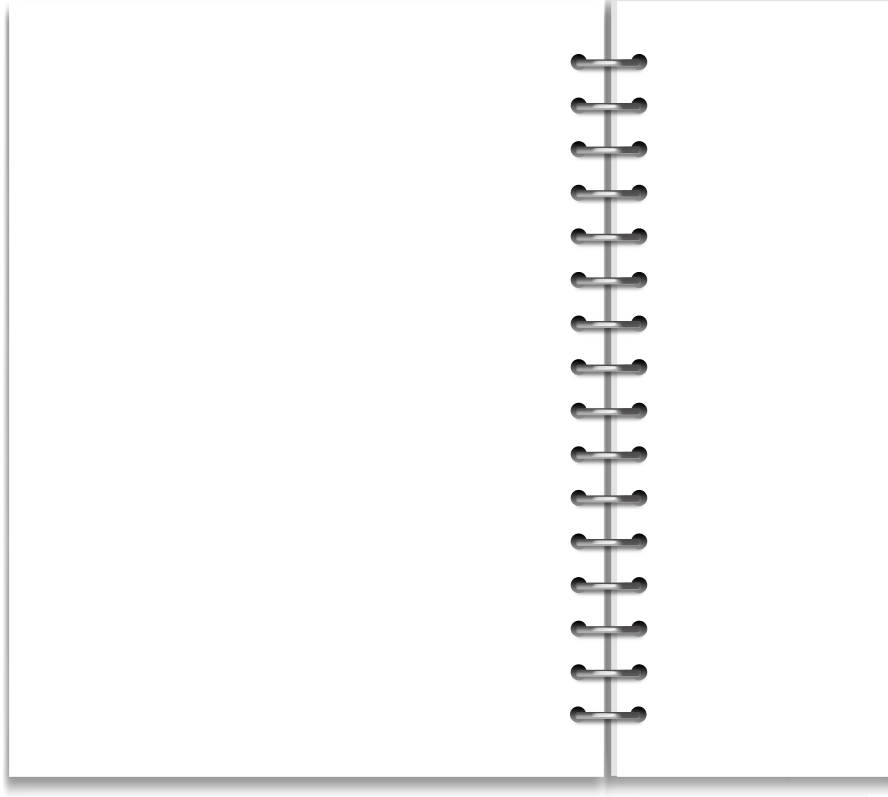
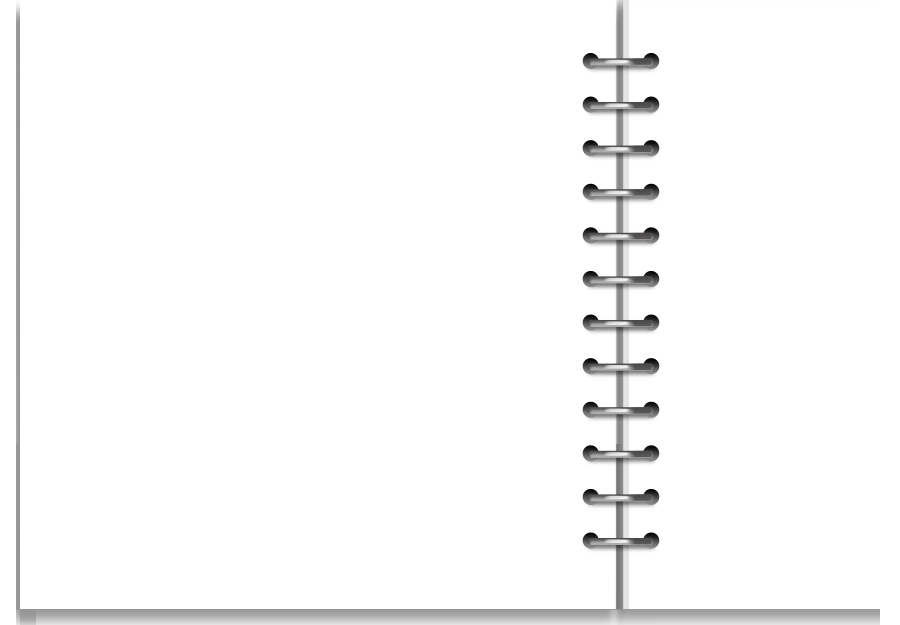
height resized

Changed region(s): [[0.6385, 0.0, 1.0, 1.0], [0.0, 0.0, 0.0608, 1.0]]

diff --git a/app/assets/stylesheets/main.css.scss b/app/assets/stylesheets/main.css.scss
@@ -58,7 +58,7 @@ ul { padding: 0; margin: 0; }
 	position: relative;
 	top: 116px;
 	width: 898px;
-	height: 795px;
+	height: 625px;
 	margin: 0 auto;
 	text-align: left;
   background-position: right;
@@ -79,7 +79,7 @@ ul { padding: 0; margin: 0; }
 #intro_page {
   margin-top: 10px;
   width: 530px;
-  height: 650px;
+  height: 580px;
   background-color: #F0F0F0;
   #intro {
     margin: 0 auto;
